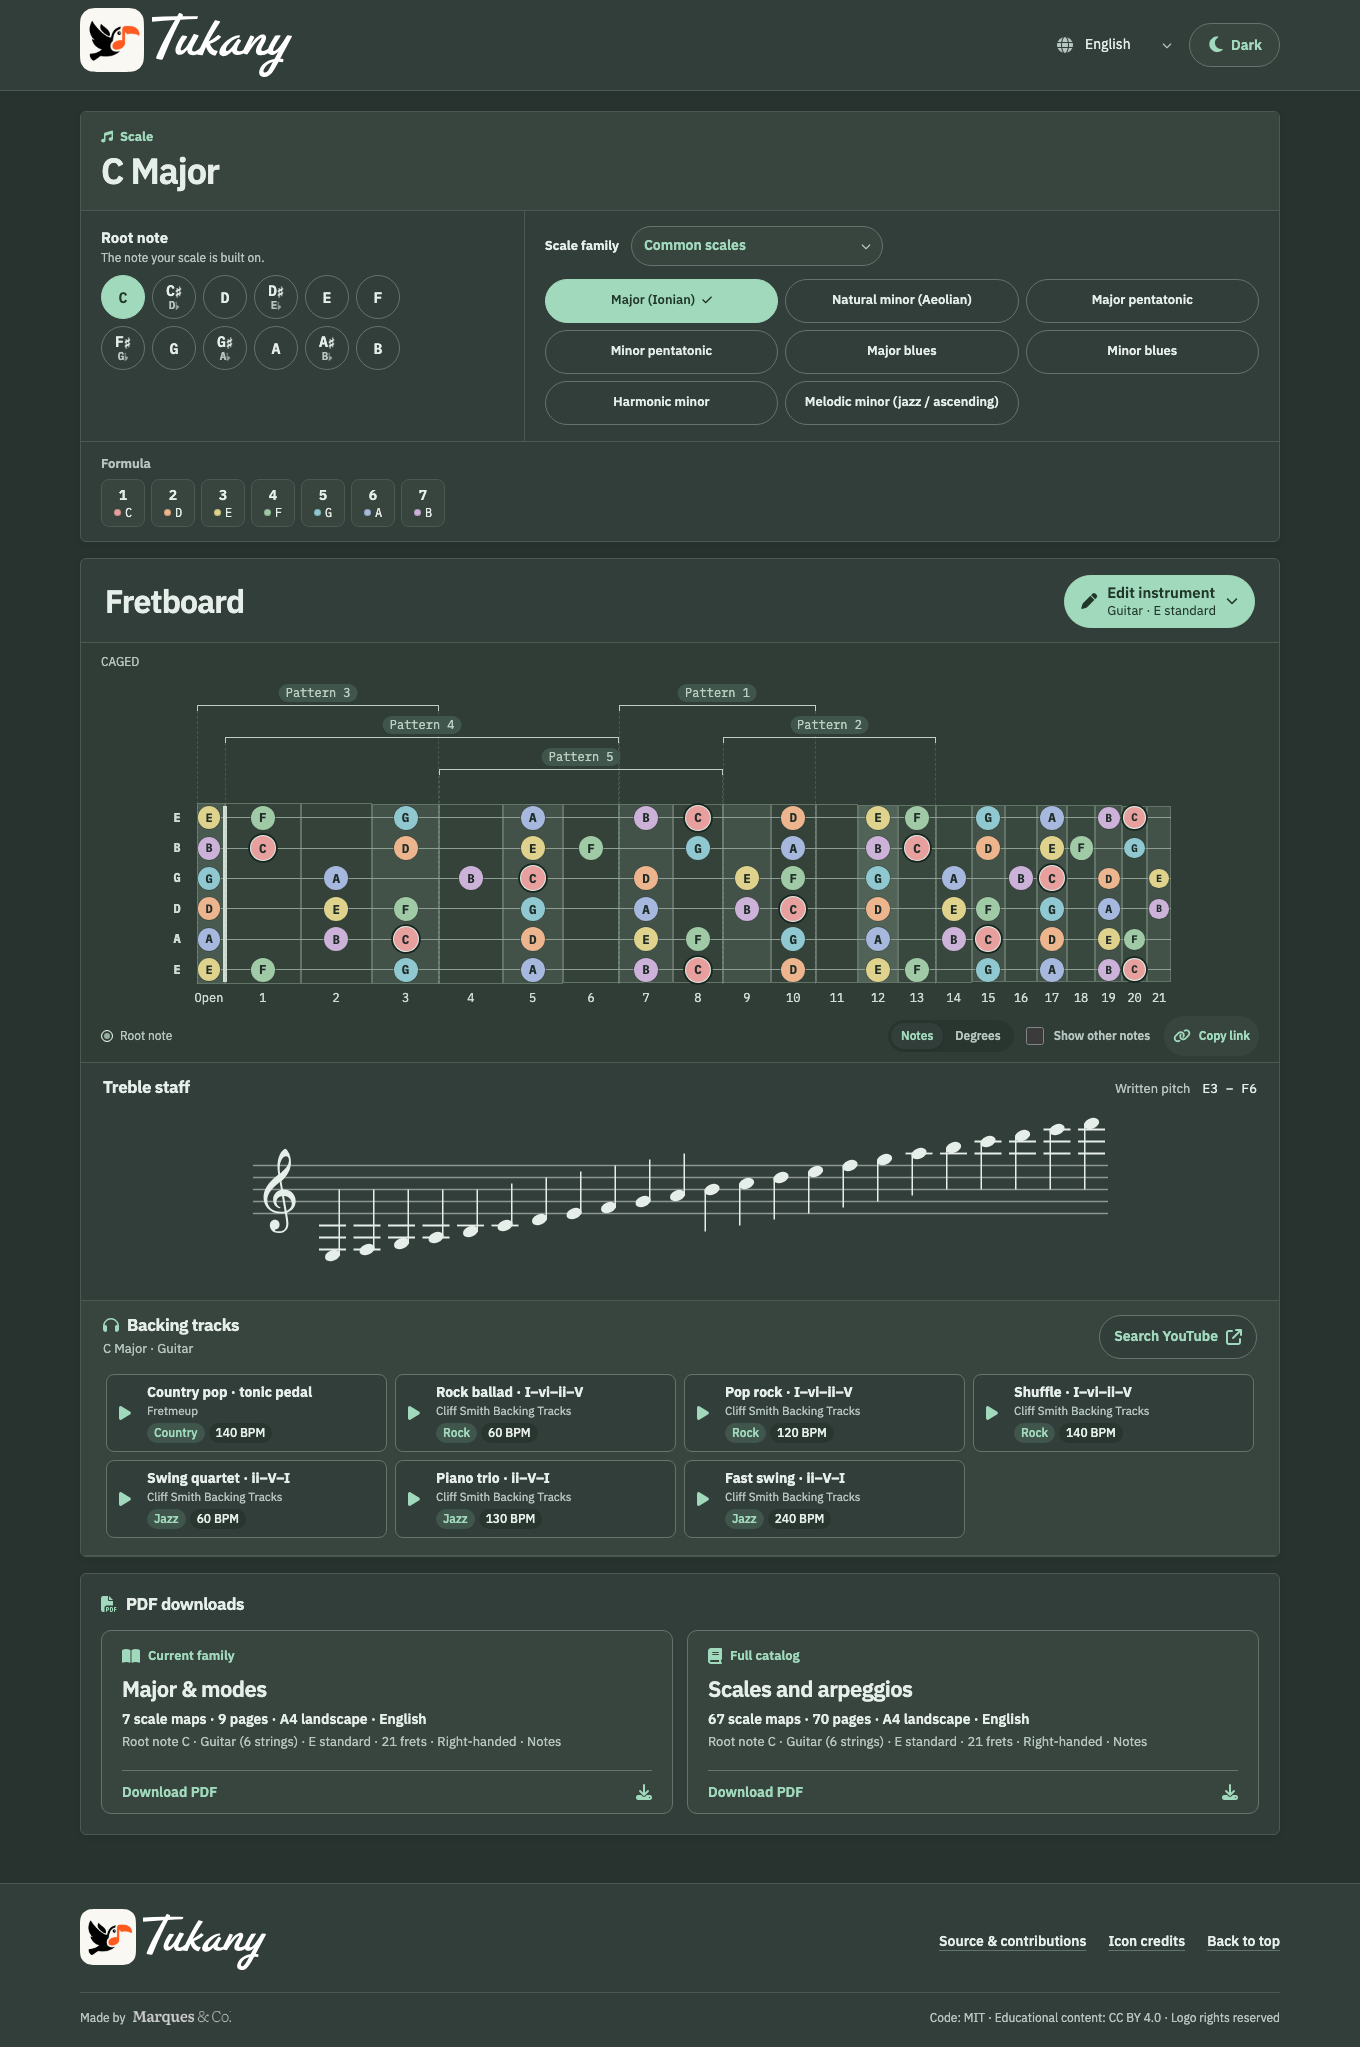
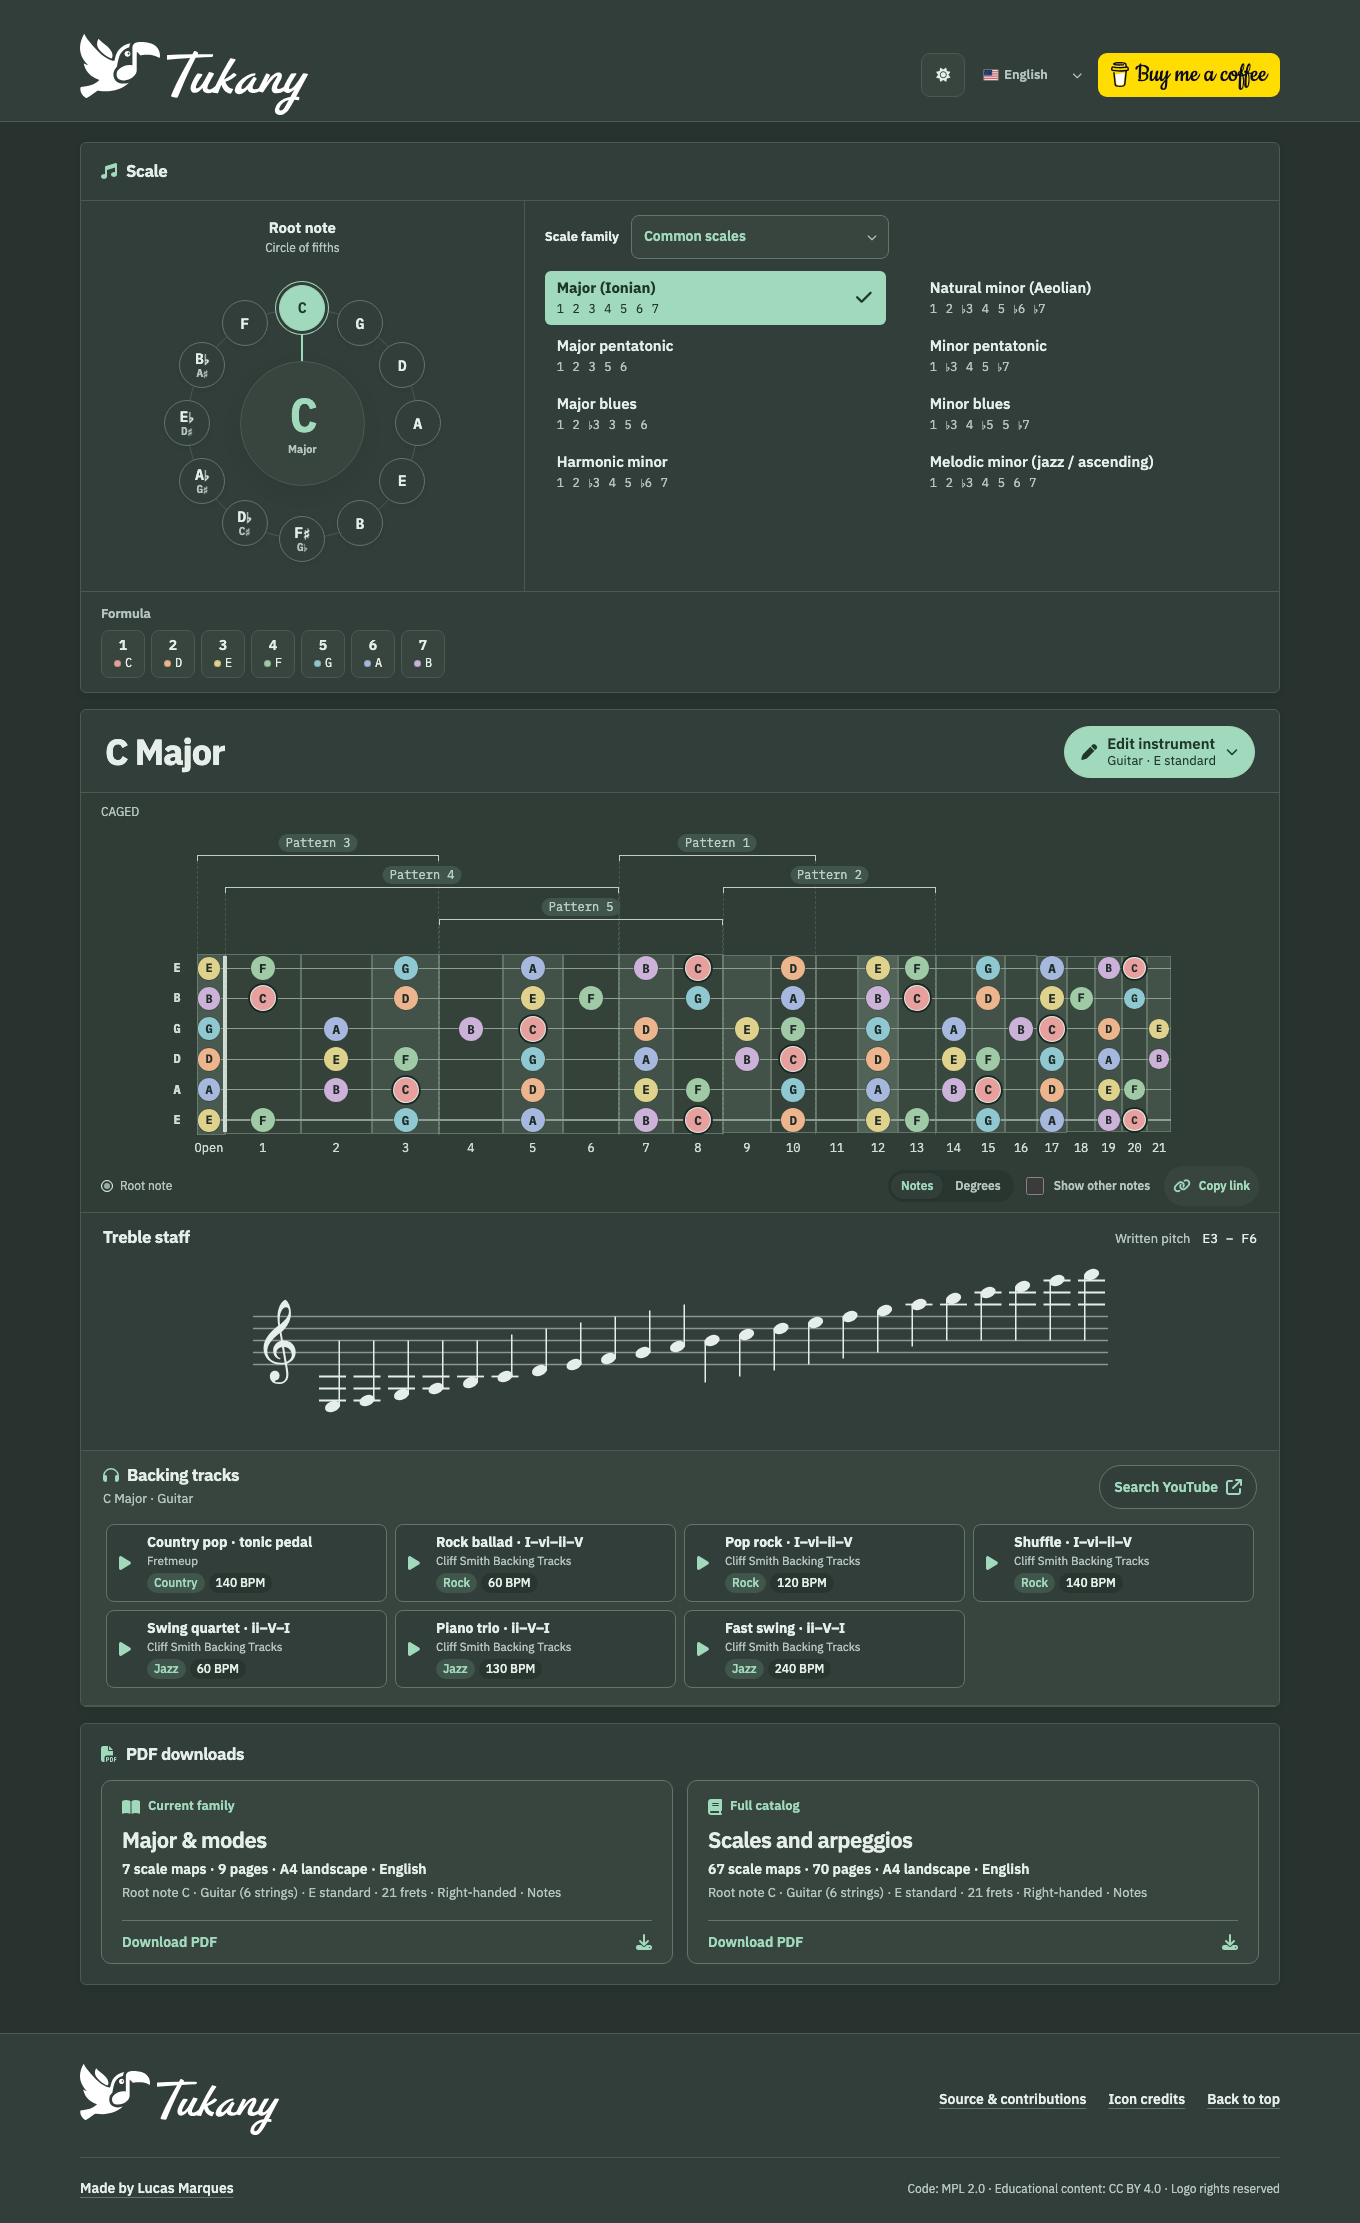
Add a circle-of-fifths root picker

diff --git a/public/styles.css b/public/styles.css
@@ -1231,11 +1231,12 @@ input[aria-invalid='true'] {
 }
 #root-picker {
   min-inline-size: 0;
-  margin: 16px var(--scale-inset) 0;
+  margin: 16px var(--scale-inset) 12px;
   padding: 0;
   border: 0;
 }
 #root-caption {
+  margin-inline: auto;
   padding: 0;
   color: var(--ink);
   font-size: 15px;
@@ -1244,19 +1245,79 @@ input[aria-invalid='true'] {
 #root-hint {
   color: var(--muted);
   font-size: 12px;
+  text-align: center;
 }
-.root-notes {
-  --root-size: clamp(44px, 7cqi, 50px);
-  --root-columns: 12;
-  display: grid;
-  grid-template-columns: repeat(var(--root-columns), var(--root-size));
-  justify-content: space-between;
+.root-wheel {
+  --root-size: 46px;
+  position: relative;
+  isolation: isolate;
+  width: min(100%, 312px);
+  aspect-ratio: 1;
+  margin: 10px auto 0;
+}
+.root-wheel::before {
+  content: '';
+  position: absolute;
+  inset: 13%;
+  border: 1px solid var(--rule);
+  border-radius: 50%;
+  pointer-events: none;
+}
+.root-wheel-pointer {
+  position: absolute;
+  inset: 14.5%;
+  transform: rotate(var(--root-angle, 0deg));
+  pointer-events: none;
+}
+.root-wheel-pointer::before {
+  content: '';
+  position: absolute;
+  inset: 0 auto auto calc(50% - 1px);
+  width: 2px;
+  height: 24%;
+  border-radius: 2px;
+  background: var(--accent-solid);
+}
+.root-wheel-current {
+  position: absolute;
+  inset: 30%;
+  display: flex;
+  flex-direction: column;
+  align-items: center;
+  justify-content: center;
   gap: 5px;
-  margin-top: 8px;
+  border: 1px solid var(--rule);
+  border-radius: 50%;
+  background: var(--subtle);
+  box-shadow: 0 7px 18px var(--shadow-soft);
+  color: var(--accent);
+  text-align: center;
+}
+#root-wheel-note {
+  font: 600 clamp(36px, 13cqi, 47px)/1 var(--mono);
+  letter-spacing: -0.065em;
+}
+#root-wheel-scale {
+  display: -webkit-box;
+  max-width: 80%;
+  overflow: hidden;
+  color: var(--muted);
+  font: 600 11px/1.2 var(--type);
+  overflow-wrap: anywhere;
+  -webkit-box-orient: vertical;
+  -webkit-line-clamp: 3;
 }
 .root-notes label {
-  position: relative;
+  position: absolute;
+  left: var(--root-x);
+  top: var(--root-y);
+  width: var(--root-size);
   margin: 0;
+  transform: translate(-50%, -50%);
+  border-radius: 50%;
+}
+.root-notes input {
+  clip-path: circle(50%);
 }
 .root-notes label > span {
   display: flex;
@@ -1269,6 +1330,7 @@ input[aria-invalid='true'] {
   border: 1px solid var(--control-border);
   border-radius: 50%;
   background: var(--paper);
+  box-shadow: 0 2px 4px var(--shadow-soft);
   color: var(--ink);
   font: 600 15px/1 var(--mono);
 }
@@ -1283,6 +1345,9 @@ input[aria-invalid='true'] {
 .root-notes input:checked + span {
   background: var(--accent-solid);
   border-color: var(--accent-solid);
+  box-shadow:
+    0 0 0 3px var(--paper),
+    0 0 0 4px var(--accent-solid);
   color: var(--accent-contrast);
 }
 .root-notes input:checked + span small {
@@ -1290,21 +1355,11 @@ input[aria-invalid='true'] {
 }
 .root-notes input:focus-visible + span {
   outline: 3px solid var(--focus);
-  outline-offset: 2px;
+  outline-offset: 5px;
 }
 @media (forced-colors: active) {
   .root-notes input:checked + span {
     border: 3px solid Highlight;
-  }
-}
-@container (max-width: 625px) {
-  .root-notes {
-    --root-columns: 6;
-  }
-}
-@container (max-width: 320px) {
-  .root-notes {
-    --root-columns: 4;
   }
 }
 #scale-catalog {
@@ -1882,22 +1937,6 @@ input[aria-invalid='true'] {
 .fretboard-options .segmented label > span {
   padding: 5px 10px;
 }
-.spelling-control {
-  margin-block: 10px 4px;
-  display: flex;
-  align-items: center;
-  gap: 8px;
-}
-.spelling-control > label {
-  margin: 0;
-  font-size: 12px;
-}
-.spelling-control :is(select, .select-trigger) {
-  width: auto;
-  min-height: 35px;
-  padding-block: 6px;
-  font-size: 12px;
-}
 .outside-control {
   margin: 0;
   min-height: 32px;
@@ -2216,12 +2255,6 @@ button:not(:disabled):active,
   .scale-formula {
     grid-column: 1 / -1;
   }
-  .root-notes {
-    --root-size: 44px;
-    --root-columns: 6;
-    justify-content: start;
-    gap: 7px;
-  }
   #scale-catalog {
     border-left: 1px solid var(--rule);
   }
@@ -2347,15 +2380,6 @@ button:not(:disabled):active,
     order: 3;
     flex-basis: 100%;
   }
-  .spelling-control {
-    gap: 6px;
-  }
-  .spelling-control > label {
-    font-size: 11px;
-  }
-  .spelling-control :is(select, .select-trigger) {
-    max-width: 108px;
-  }
   .toolbar {
     margin-left: auto;
   }
@@ -2382,10 +2406,5 @@ button:not(:disabled):active,
   .language .select-trigger > span {
     gap: 0;
     font-size: 0;
-  }
-}
-@media (max-width: 370px) {
-  .spelling-control {
-    flex-wrap: wrap;
   }
 }

diff --git a/public/index.html b/public/index.html
@@ -132,14 +132,14 @@
           </h2>
           <fieldset id="root-picker" aria-describedby="root-hint">
             <legend id="root-caption" data-i18n="root">Root note</legend>
-            <p id="root-hint" data-i18n="rootHint">The note your scale is built on.</p>
-            <div class="root-notes" id="root-notes"></div>
-            <div id="key-tonic-control" class="spelling-control select-control" hidden>
-              <label for="key-tonic" data-i18n="keyTonic">Write key as</label
-              ><span class="select-field"
-                ><select id="key-tonic"></select
-                ><i class="icon fa-solid fa-chevron-down" aria-hidden="true"></i
-              ></span>
+            <p id="root-hint" data-i18n="circleOfFifths">Circle of fifths</p>
+            <div class="root-wheel" id="root-wheel">
+              <span class="root-wheel-pointer" aria-hidden="true"></span>
+              <output class="root-wheel-current" aria-live="polite" aria-atomic="true">
+                <strong id="root-wheel-note"></strong>
+                <span id="root-wheel-scale"></span>
+              </output>
+              <div class="root-notes" id="root-notes"></div>
             </div>
           </fieldset>
           <div id="scale-catalog">

diff --git a/docs/design.md b/docs/design.md
@@ -48,8 +48,9 @@ and the full catalog PDF.
 
 The Scale card has a music note icon. The PDF downloads card uses the same
 heading style with a PDF icon. The larger fretboard heading shows the selected
-root and scale name. Players can transpose the diagram using 12 circular root
-buttons. Accidentals show both names in one circle, such as F♯ and G♭. Common scales are
+root and scale name. Players can transpose the diagram using 12 buttons arranged
+in a circle of fifths. The center shows the current root and scale. Accidentals
+show both names on one button, such as F♯ and G♭. Common scales are
 available on a fresh visit. A family menu brings related choices such as blues
 scales or arpeggios into view. Each name has its degree formula underneath.
 Selecting a name applies it to the fretboard. A solid green background and a
@@ -61,8 +62,8 @@ Pressing it sounds the note and highlights that pitch on the fretboard.
 On phones, a sticky current-scale shortcut gives a direct route to the fretboard
 and focuses its heading. A caption identifies the selected pattern and its
 lowest note and degree. The bracket supplies its fret span.
-The fretboard spells pitches according to the scale formula. The Write key as
-menu offers a choice of tonic spelling when a pitch has alternative names.
+The fretboard and circle center use the tonic spelling chosen for the scale
+formula or supplied by a practice link.
 The Notes/Degrees switch and Show other notes checkbox sit alongside the root legend
 at the foot of the fretboard. They control the diagram labels and visibility
 of pitches outside the scale.

diff --git a/README.md b/README.md
@@ -31,7 +31,7 @@ a practice query resumes the instrument and scale saved on that device.
 
 ### Find notes and fingering patterns
 
-Choose a root note directly on the card, then pick a scale. Common scales appear
+Choose a root note on the circle of fifths, then pick a scale. Common scales appear
 first on a fresh visit. To find Dorian, for example, open **Scale family**, choose
 **Major & modes**, then select **Dorian**. Browsing families keeps the current
 scale on the fretboard. The formula pairs each degree with its note name.
@@ -80,9 +80,10 @@ marks its exact pitch on the staff, temporarily adding that note when necessary.
 The key signature appears after the clef. In D harmonic minor, for example, the
 signature supplies B♭ and the staff writes C♯ beside the raised seventh.
 See the [staff notation conventions](docs/references.md#staff-notation).
-Note names follow the scale’s written degrees. When a key has two common names,
-use **Write key as** to choose between them, such as F♯ major or G♭ major.
-The Scale card always offers the same 12 root notes.
+Note names follow the scale’s written degrees. The circle of fifths offers 12
+roots and shows alternate names on the same button, such as F♯ and G♭. Tukany
+chooses a spelling for the selected scale and honors spellings specified in
+practice links.
 
 Tukany opens in Light on first visit, even on a device set to dark mode. Use the
 sun-and-moon button in the header to switch themes. Tukany remembers your choice

diff --git a/docs/testing.md b/docs/testing.md
@@ -94,10 +94,10 @@ Serve a fresh build with `node scripts/serve.mjs` and check the following:
 - Select a scale and play a formula degree. Check that its spelled pitch matches
   the highlighted notes. Open a saved custom-formula link and confirm its degrees
   still display after switching languages.
-- Use Write key as to compare F♯ major (seventh degree E♯) with G♭ major
-  (fourth degree C♭). Check that the same 12 circles remain in the Scale card
-  and the selected root keeps its position. Open an older link with `spelling=both`
-  and confirm the same key-based spelling appears.
+- Tap the 12 roots on a phone and use the arrow keys on a desktop. Check that
+  focus moves in circle-of-fifths order and that the ring center and fretboard
+  show the same root. Open an older link to G♭ major with `spelling=both` and
+  confirm that the F♯ / G♭ button stays selected and the fourth degree is C♭.
   Switch between notes and degrees, then toggle Show other notes. Check that the
   fretboard retains its horizontal scroll position and that the formula continues
   to show each degree with its spelled note.

diff --git a/docs/assets/README.md b/docs/assets/README.md
@@ -6,8 +6,8 @@ the tuning or handedness recalculates the fretboard and any PDF you export.
 
 ## Current homepage
 
-- [Light desktop](desktop.png) shows C major on a right-handed, six-string guitar in E standard. The formula pairs the seven degrees with their notes. The 21-fret neck shows all five CAGED patterns, and the treble staff covers the pitches they use. The PDF cards show the 9-page Major & modes family and the 70-page full catalog.
-- [Dark desktop](desktop-dark.png) shows the same setup and layout after switching themes. Both full-page captures measure 1360 × 2047 pixels.
+- [Light desktop](desktop.png) shows C major on a right-handed, six-string guitar in E standard. C is selected on the circle of fifths. The formula pairs the seven degrees with their notes. The 21-fret neck shows all five CAGED patterns, and the treble staff covers the pitches they use. The PDF cards show the 9-page Major & modes family and the 70-page full catalog.
+- [Dark desktop](desktop-dark.png) shows the same setup and layout after switching themes. Both full-page captures measure 1360 × 2223 pixels.
 
 ## Printable output
 
